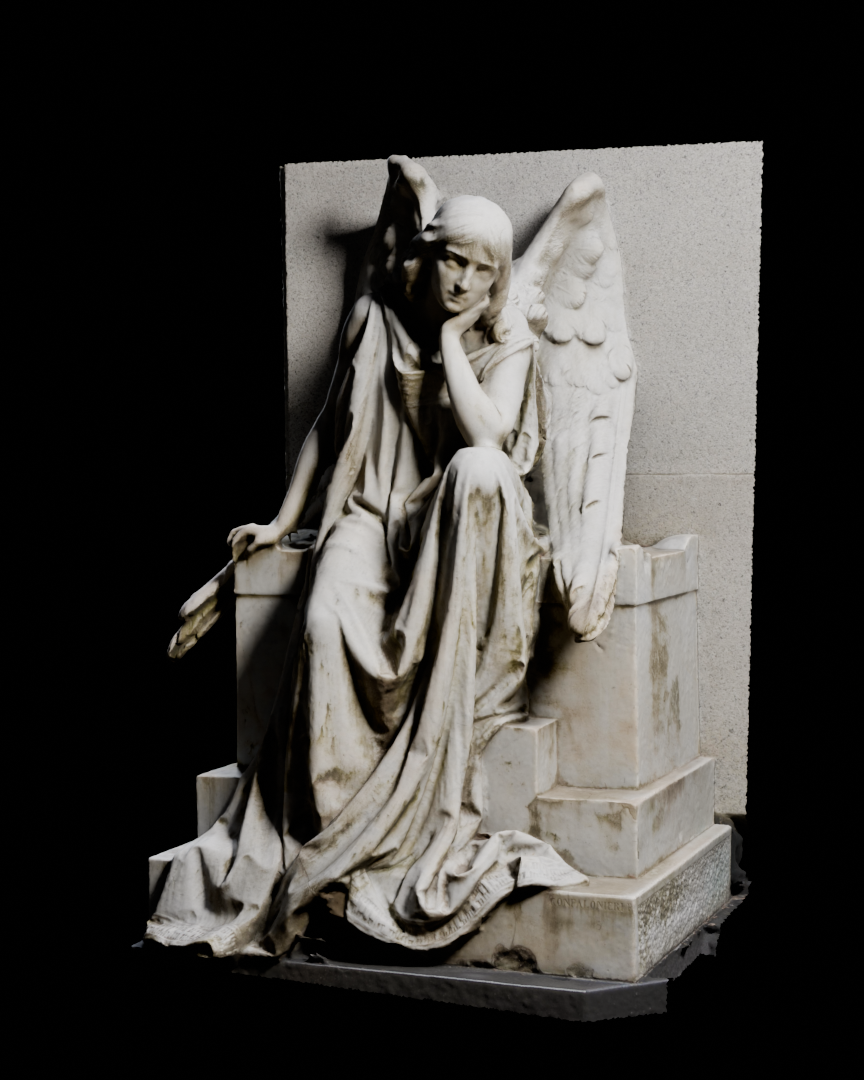
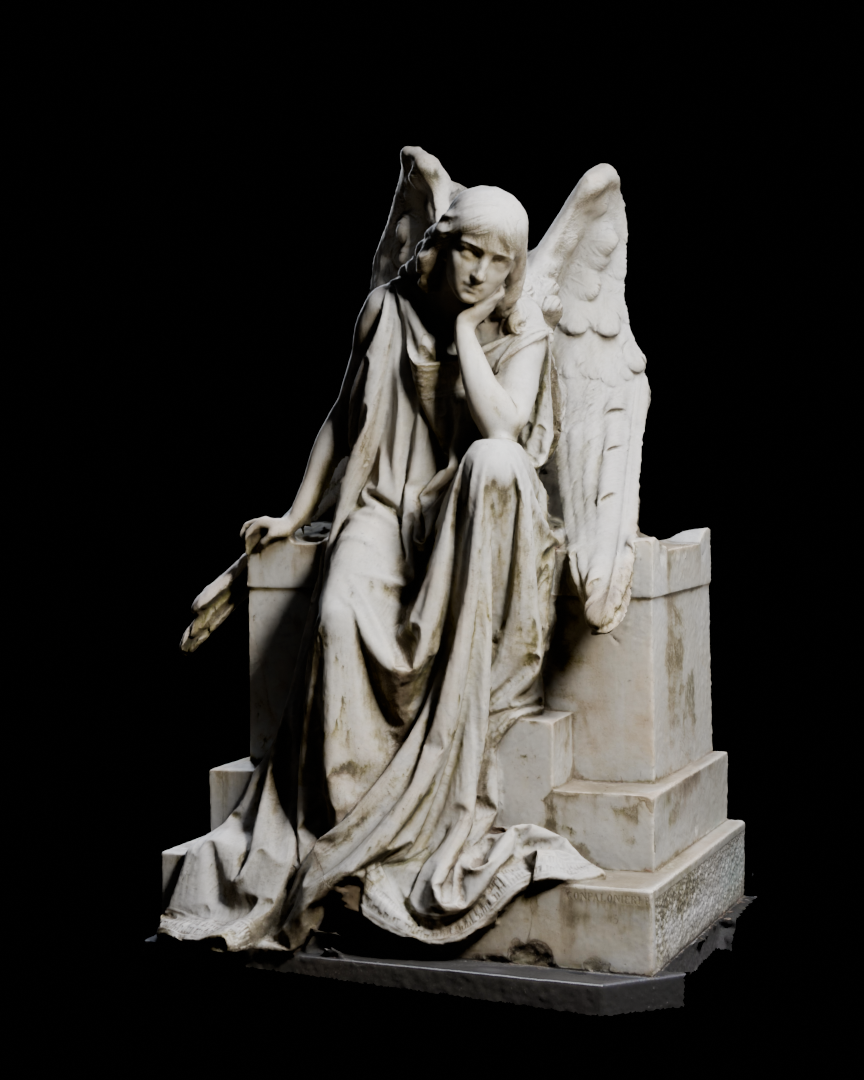
docs: Milan angel wall removed, front-only camera constraint

Changed region(s): [[0.1562, 0.1222, 0.9062, 0.9472]]

diff --git a/docs/revamp/g1-assets/heroes.html b/docs/revamp/g1-assets/heroes.html
@@ -1,10 +1,10 @@
 <!doctype html><meta charset=utf-8><title>G1 · Hero statues: first renders</title>
 <style>body{background:#000;color:#ccc;font:15px/1.5 system-ui;margin:40px auto;max-width:1500px;padding:0 24px}h1{font-weight:500}
 .row{display:grid;grid-template-columns:repeat(3,1fr);gap:24px}figure{margin:0}img{width:100%;display:block}figcaption{padding:10px 2px;color:#999}b{color:#ddd}</style>
-<h1>Gate 1 · The three hero statues, rendered on obsidian black</h1>
+<h1>Gate 1 · The three hero statues, rendered on obsidian black: APPROVED</h1>
 <p>Path-traced in Blender Cycles with one warm key light, a cool rim light and no fill. This is the lighting language Act I starts from. On the site, the camera moves across each one as you scroll.</p>
 <div class=row>
 <figure><img src="renders/hero_angel_engel.png"><figcaption><b>I · The Angel</b>: <i>Engel</i>, scan by noe-3d.at (CC-BY). Gazing upward, open.</figcaption></figure>
-<figure><img src="renders/hero_death_milan.png"><figcaption><b>II · The Angel of Death</b>: mourning angel, Monumental Cemetery of Milan (CC-BY). The scan includes the granite wall behind her. Keep it as a backdrop, or I cut it away so she floats in the black.</figcaption></figure>
+<figure><img src="renders/hero_death_milan.png"><figcaption><b>II · The Angel of Death</b>: mourning angel, Monumental Cemetery of Milan (CC-BY). Granite backing wall cut away. The scan has no back, so the camera stays within about 60° of her front.</figcaption></figure>
 <figure><img src="renders/hero_mother_maternal.png"><figcaption><b>III · The Mother</b>: <i>Maternal Affection</i> (CC-BY). Clean marble, intact.</figcaption></figure>
 </div>

diff --git a/docs/revamp/BRIEF.md b/docs/revamp/BRIEF.md
@@ -94,6 +94,8 @@ Suryansh approved `g1-assets/heroes.html` ("approved"): Engel, the Milan mournin
 Maternal Affection, lit with a warm key, a cool rim and no fill, on pure black. That lighting is
 the Act I look. The Milan scan's granite backing wall is cut away (my recommendation; he didn't
 object) so all three float in the black; the slab is kept in the source file in case he wants it back.
+**Constraint:** the Milan scan is front-only (hollow behind the wall), so the Act I camera stays
+within about ±60° of her front. Engel and Maternal Affection are full scans and can be orbited.
 
 ### Forest and door decision (G1, 2026-10-11)
 Suryansh approved `g1-assets/forest.html` ("use this"). This means the **recommended (gold)
